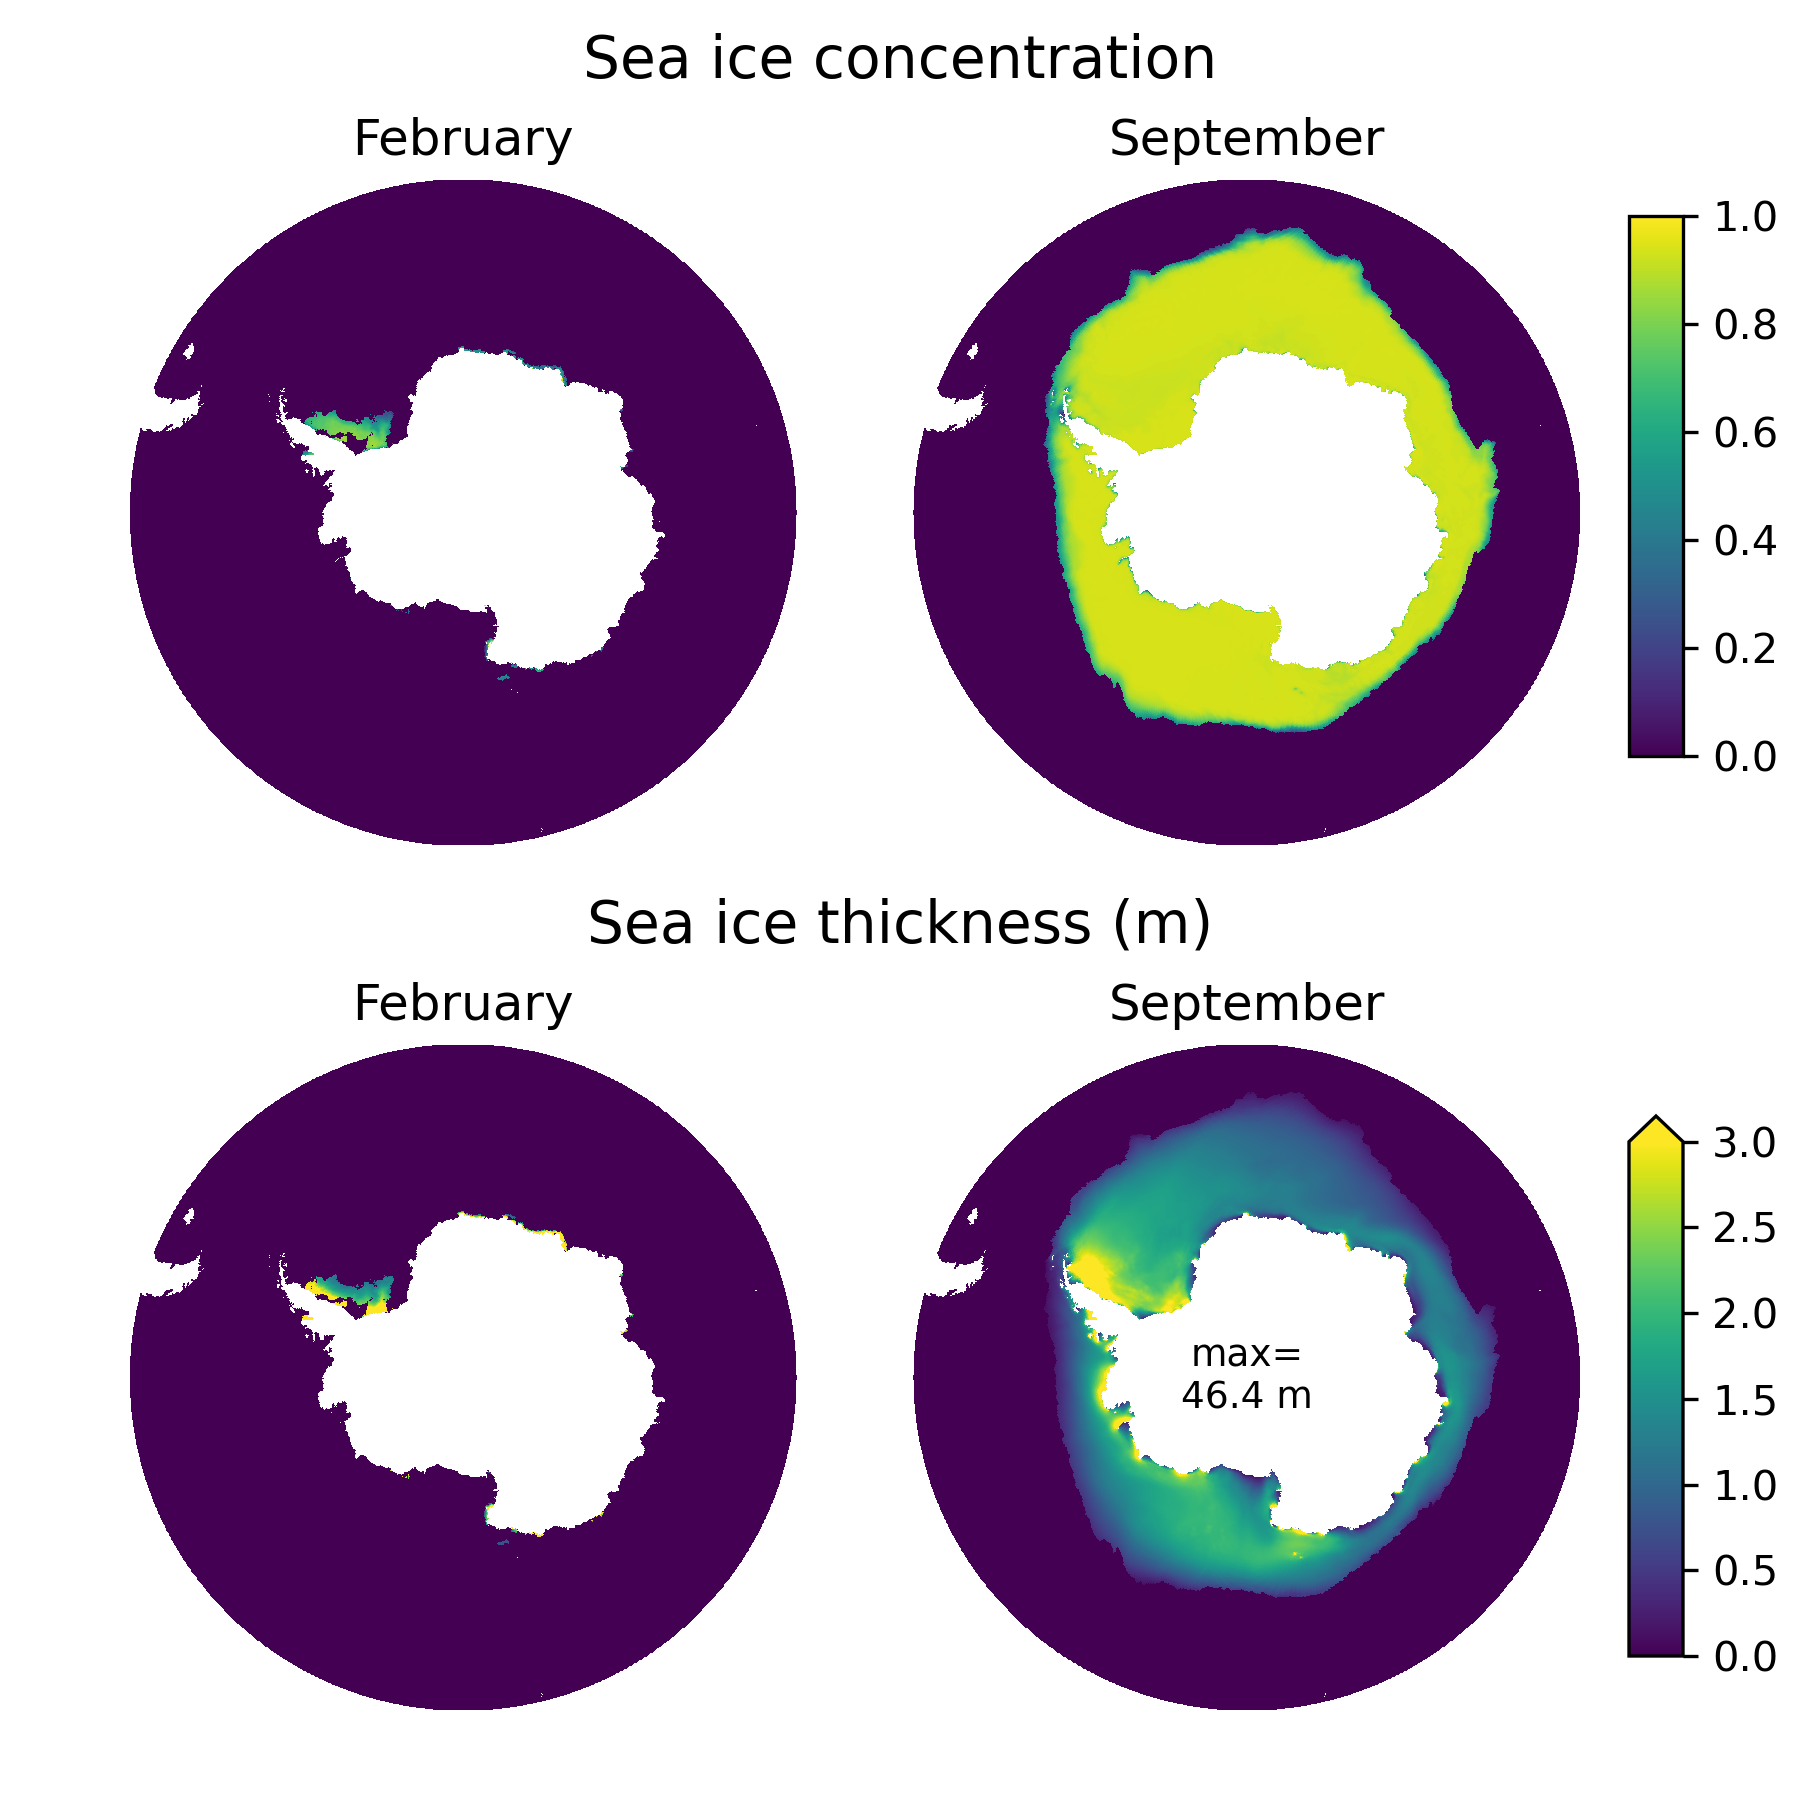
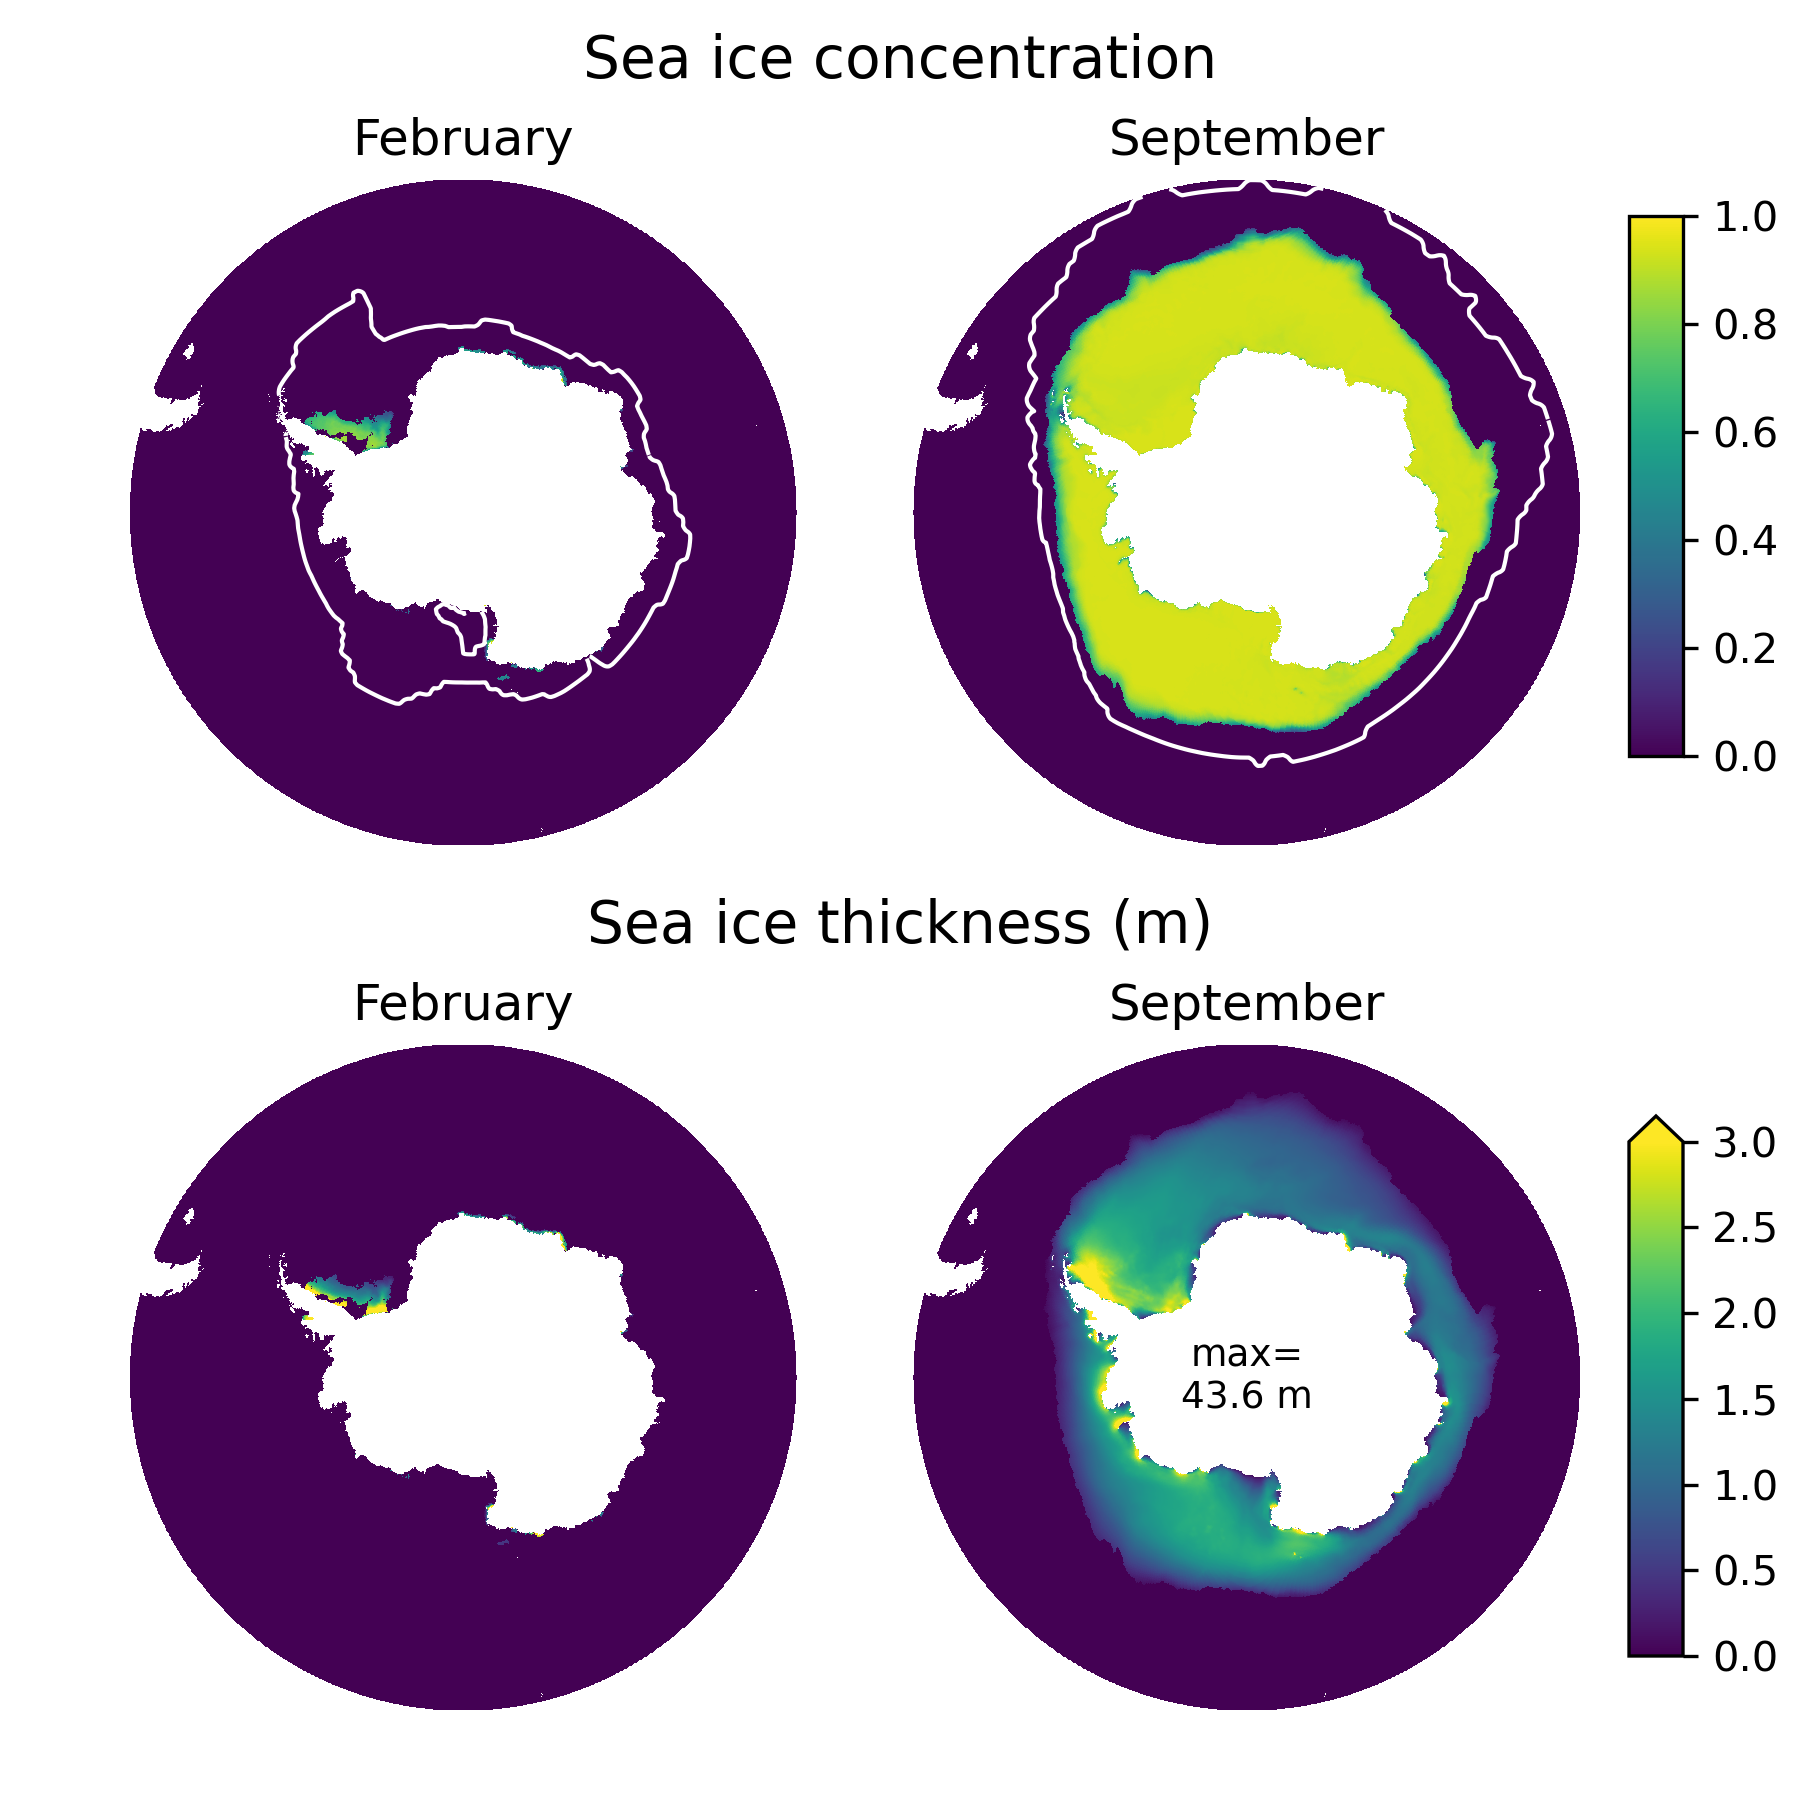
Update docs

diff --git a/docs/evaluation_deck_guide.md b/docs/evaluation_deck_guide.md
@@ -18,7 +18,7 @@ Here are instructions for how to generate a bunch of figures to evaluate the sim
 
 ![](evaluation_zonal_TS.png)
 
-5. a 4-panelled map showing sea ice area and thickness during February (min) and September (max):
+5. a 4-panelled map showing sea ice area and thickness during February (min) and September (max), with the observed ice edge (HadISST) contoured in white:
 
 ![](evaluation_seaice.png)
 
